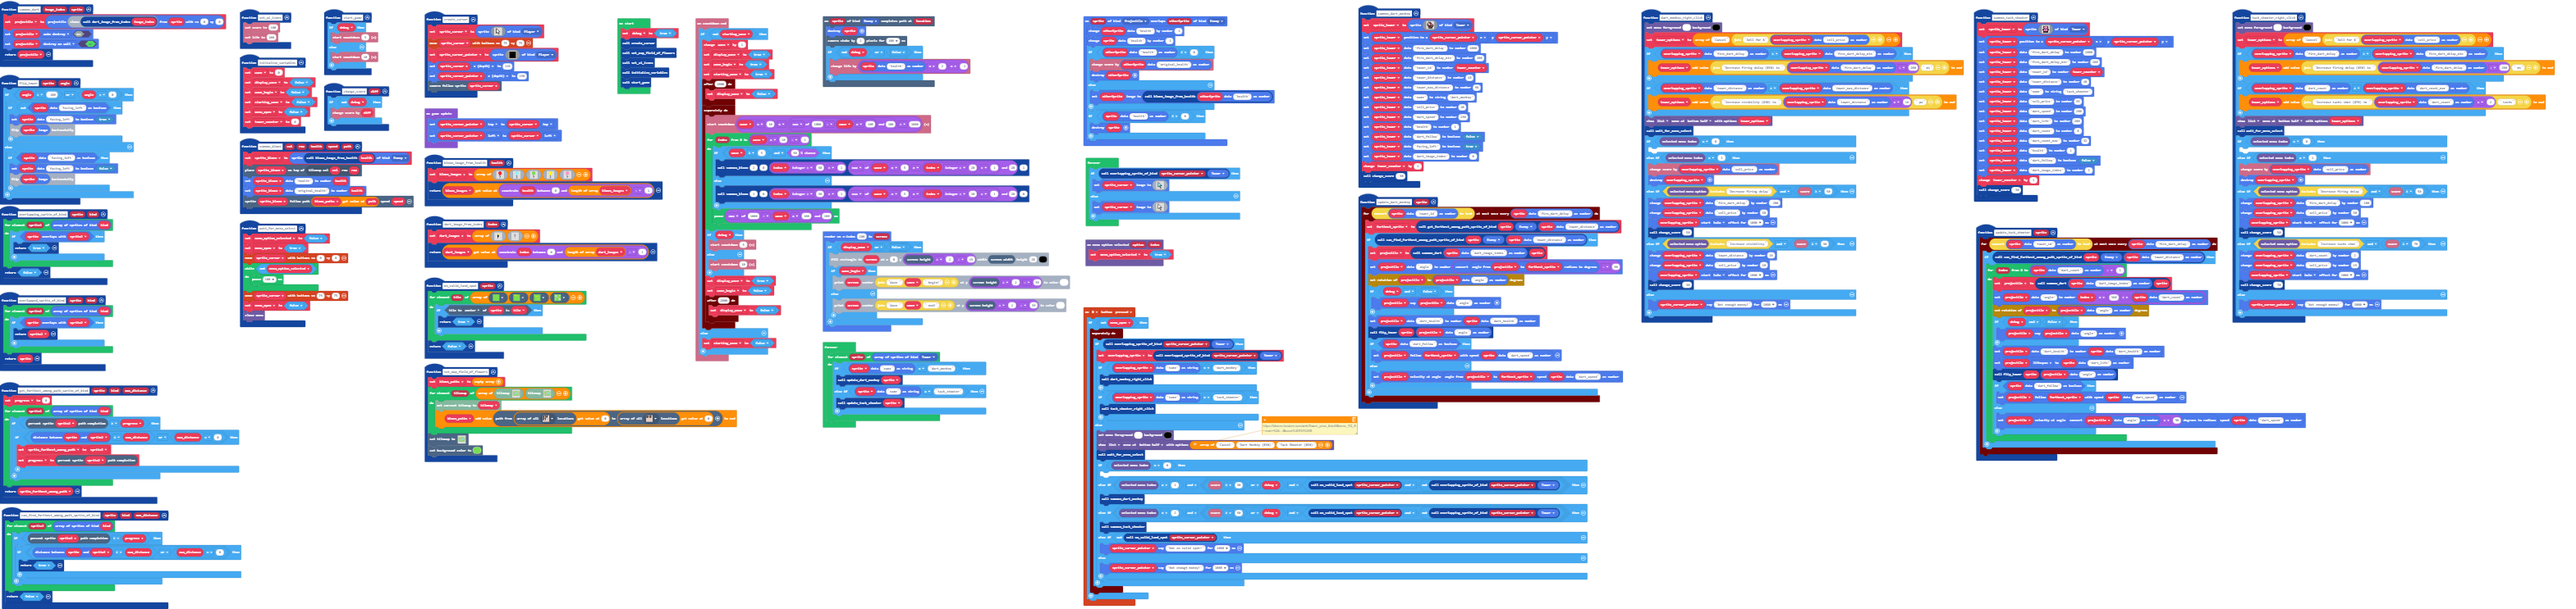
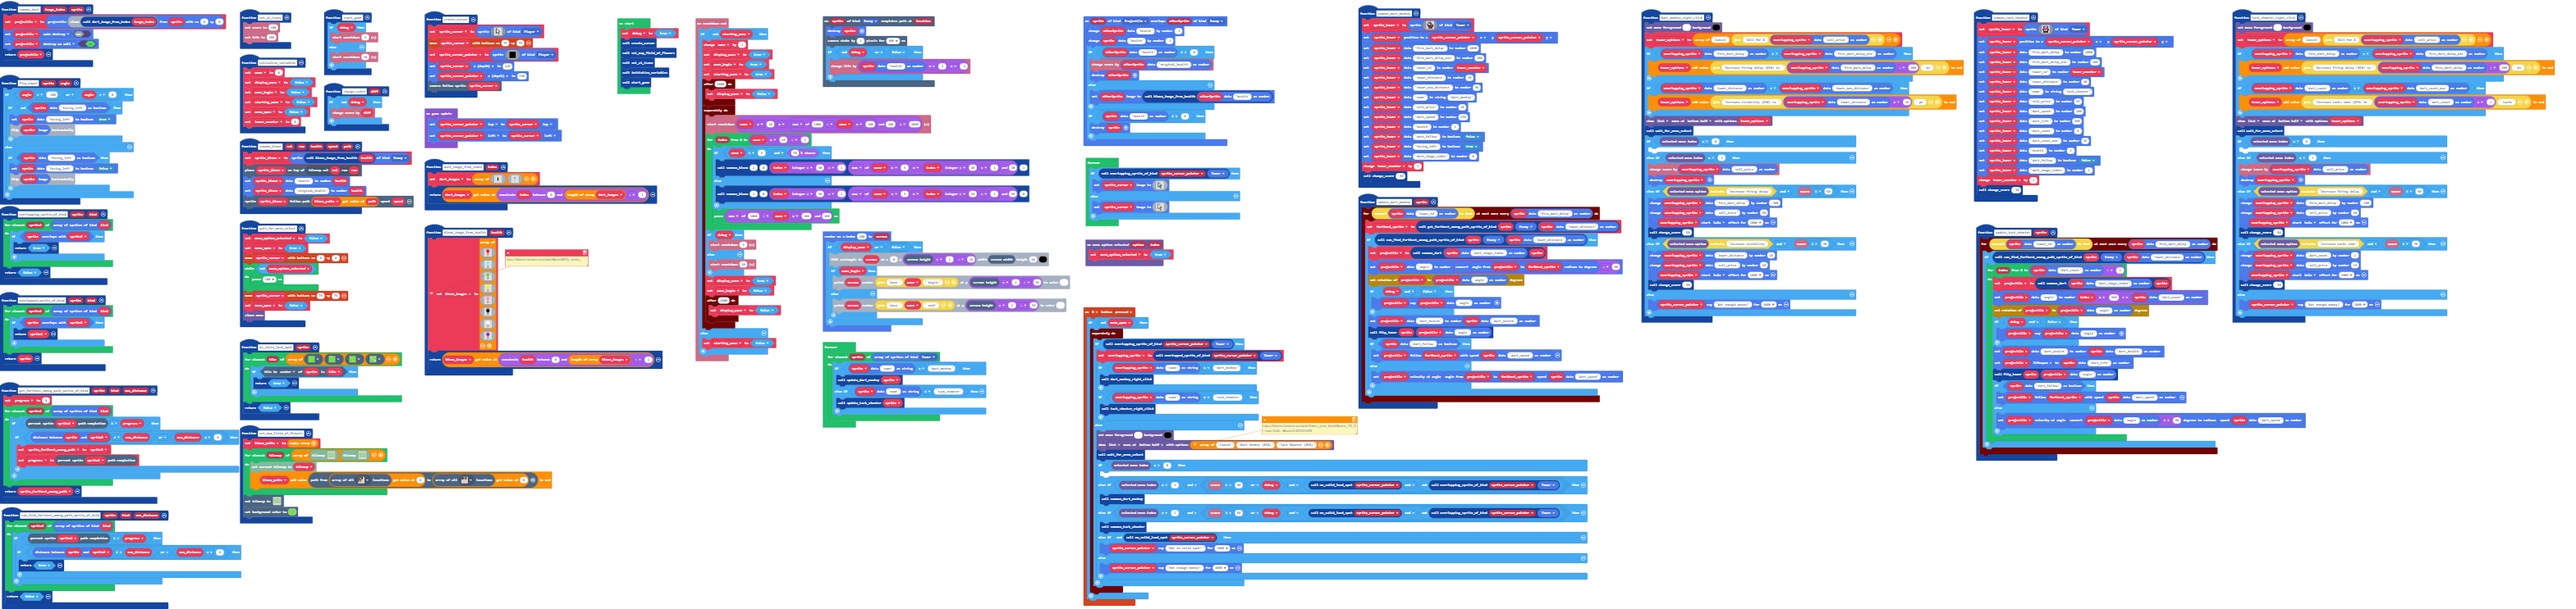
More bloons!

Changed region(s): [[0.0937, 0.2476, 0.3123, 0.8668]]

diff --git a/main.ts b/main.ts
@@ -351,7 +351,9 @@ function dart_image_from_index (index: number) {
     return dart_images[Math.constrain(index, 0, dart_images.length - 1)]
 }
 function bloon_image_from_health (health: number) {
-    bloon_images = [img`
+    // https://bloons.fandom.com/wiki/Bloon#BTD_series_
+    bloon_images = [
+    img`
         . . . . . . 2 2 2 2 . . . . . . 
         . . . . . 2 2 2 2 2 2 . . . . . 
         . . . . 2 2 2 2 2 2 2 2 . . . . 
@@ -368,7 +370,8 @@ function bloon_image_from_health (health: number) {
         . . . . . . . . f . . . . . . . 
         . . . . . . . f . . . . . . . . 
         . . . . . . . f . . . . . . . . 
-        `, img`
+        `,
+    img`
         . . . . . . 9 9 9 9 . . . . . . 
         . . . . . 9 9 9 9 9 9 . . . . . 
         . . . . 9 9 9 9 9 9 9 9 . . . . 
@@ -385,7 +388,8 @@ function bloon_image_from_health (health: number) {
         . . . . . . . . f . . . . . . . 
         . . . . . . . f . . . . . . . . 
         . . . . . . . f . . . . . . . . 
-        `, img`
+        `,
+    img`
         . . . . . . 7 7 7 7 . . . . . . 
         . . . . . 7 7 7 7 7 7 . . . . . 
         . . . . 7 7 7 7 7 7 7 7 . . . . 
@@ -402,7 +406,8 @@ function bloon_image_from_health (health: number) {
         . . . . . . . . f . . . . . . . 
         . . . . . . . f . . . . . . . . 
         . . . . . . . f . . . . . . . . 
-        `, img`
+        `,
+    img`
         . . . . . . 5 5 5 5 . . . . . . 
         . . . . . 5 5 5 5 5 5 . . . . . 
         . . . . 5 5 5 5 5 5 5 5 . . . . 
@@ -419,7 +424,8 @@ function bloon_image_from_health (health: number) {
         . . . . . . . . f . . . . . . . 
         . . . . . . . f . . . . . . . . 
         . . . . . . . f . . . . . . . . 
-        `, img`
+        `,
+    img`
         . . . . . . 3 3 3 3 . . . . . . 
         . . . . . 3 3 3 3 3 3 . . . . . 
         . . . . 3 3 3 3 3 3 3 3 . . . . 
@@ -436,7 +442,62 @@ function bloon_image_from_health (health: number) {
         . . . . . . . . f . . . . . . . 
         . . . . . . . f . . . . . . . . 
         . . . . . . . f . . . . . . . . 
-        `]
+        `,
+    img`
+        . . . . . . f f f f . . . . . . 
+        . . . . . f f f f f f . . . . . 
+        . . . . f f f f f f f f . . . . 
+        . . . . f f f f f f f f . . . . 
+        . . . . f f f f f f f f . . . . 
+        . . . . f f f f f f f f . . . . 
+        . . . . . f f f f f f . . . . . 
+        . . . . . f f f f f f . . . . . 
+        . . . . . . f f f f . . . . . . 
+        . . . . . . . f f . . . . . . . 
+        . . . . . . . f . . . . . . . . 
+        . . . . . . . f . . . . . . . . 
+        . . . . . . . . f . . . . . . . 
+        . . . . . . . . f . . . . . . . 
+        . . . . . . . f . . . . . . . . 
+        . . . . . . . f . . . . . . . . 
+        `,
+    img`
+        . . . . . . 1 1 1 1 . . . . . . 
+        . . . . . 1 1 1 1 1 1 . . . . . 
+        . . . . 1 1 1 1 1 1 1 1 . . . . 
+        . . . . 1 1 1 1 1 1 1 1 . . . . 
+        . . . . 1 1 1 1 1 1 1 1 . . . . 
+        . . . . 1 1 1 1 1 1 1 1 . . . . 
+        . . . . . 1 1 1 1 1 1 . . . . . 
+        . . . . . 1 1 1 1 1 1 . . . . . 
+        . . . . . . 1 1 1 1 . . . . . . 
+        . . . . . . . 1 1 . . . . . . . 
+        . . . . . . . f . . . . . . . . 
+        . . . . . . . f . . . . . . . . 
+        . . . . . . . . f . . . . . . . 
+        . . . . . . . . f . . . . . . . 
+        . . . . . . . f . . . . . . . . 
+        . . . . . . . f . . . . . . . . 
+        `,
+    img`
+        . . . . . . a a a a . . . . . . 
+        . . . . . a a a a a a . . . . . 
+        . . . . a a a a a a a a . . . . 
+        . . . . a a a a a a a a . . . . 
+        . . . . a a a a a a a a . . . . 
+        . . . . a a a a a a a a . . . . 
+        . . . . . a a a a a a . . . . . 
+        . . . . . a a a a a a . . . . . 
+        . . . . . . a a a a . . . . . . 
+        . . . . . . . a a . . . . . . . 
+        . . . . . . . f . . . . . . . . 
+        . . . . . . . f . . . . . . . . 
+        . . . . . . . . f . . . . . . . 
+        . . . . . . . . f . . . . . . . 
+        . . . . . . . f . . . . . . . . 
+        . . . . . . . f . . . . . . . . 
+        `
+    ]
     return bloon_images[Math.constrain(health, 0, bloon_images.length) - 1]
 }
 function update_tack_shooter (sprite: Sprite) {
